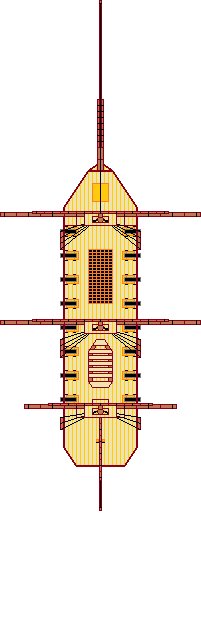
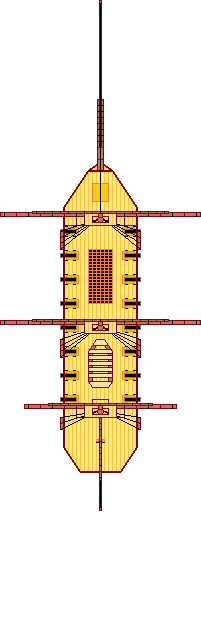
add last ship, fix mistake for block shot

Changed region(s): [[0.0, 0.1506, 1.0, 0.7528], [0.5672, 0.271, 0.6269, 0.3011], [0.4776, 0.7829, 0.5075, 0.813]]

diff --git a/game_display.py b/game_display.py
@@ -71,6 +71,8 @@ class ship_object(ship_type):
             super().__init__(corvet_move, corvet_stay, corvet_deck_width, corvet_deck_height, 2.4, 0.6, 60, 50, corvet_guns_left, corvet_guns_right)
         elif (type == "fregat"):
             super().__init__(fregat_move, fregat_stay, fregat_deck_width, fregat_deck_height, 2.0, 0.8, 75, 60, fregat_guns_left, fregat_guns_right)
+        elif (type == "tradeship"):
+            super().__init__(tradeship_move, tradeship_stay, tradeship_deck_width, tradeship_deck_height, 2.4, 0.4, 90, 60, tradeship_guns_left, tradeship_guns_right)
         elif (type == "warship"):
             super().__init__(warship_move, warship_stay, warship_deck_width, warship_deck_height, 2.4, 0.8, 90, 60, warship_guns_left, warship_guns_right)
     def get_width(self):
@@ -179,30 +181,33 @@ corvet_guns_right = [(35, -72), (35, -48), (35, -24), (35, 0), (35, 24), (35, 48
 fregat_move = pygame.image.load('fregat\\sail_1.png')
 fregat_stay = pygame.image.load('fregat\\sail_0.png')
 fregat_deck_width = 74
-fregat_deck_height = 302
-fregat_guns_left = [(-43, -84), (-43, -60), (-43, -36), (-43, -12), (-43, 12), (-43, 36), (-43, 60), (-43, 84)]
-fregat_guns_right = [(43, -84), (43, -60), (43, -36), (43, -12), (43, 12), (43, 36), (43, 60), (43, 84)]
+fregat_deck_height = 308
+fregat_guns_left = [(-43, -81), (-43, -57), (-43, -33), (-43, -9), (-43, 15), (-43, 39), (-43, 63), (-43, 87)]
+fregat_guns_right = [(43, -81), (43, -57), (43, -33), (43, -9), (43, 15), (43, 39), (43, 63), (43, 87)]
+
+tradeship_move = pygame.image.load('tradeship\\sail_1.png')
+tradeship_stay = pygame.image.load('tradeship\\sail_0.png')
+tradeship_deck_width = 74
+tradeship_deck_height = 332
+tradeship_guns_left = [(-43, -69), (-43, -45), (-43, -21), (-43, 3), (-43, 27), (-43, 51), (-43, 75)]
+tradeship_guns_right = [(43, -69), (43, -45), (43, -21), (43, 3), (43, 27), (43, 51), (43, 75)]
 
 warship_move = pygame.image.load('warship\\sail_1.png')
 warship_stay = pygame.image.load('warship\\sail_0.png')
 warship_deck_width = 74
-warship_deck_height = 326
-warship_guns_left = [(-43, -96), (-43, -72), (-43, -48), (-43, -24), (-43, 0), (-43, 24), (-43, 48), (-43, 72), (-43, 96)]
-warship_guns_right = [(43, -96), (43, -72), (43, -48), (43, -24), (43, 0), (43, 24), (43, 48), (43, 72), (43, 96)]
+warship_deck_height = 332
+warship_guns_left = [(-43, -93), (-43, -69), (-43, -45), (-43, -21), (-43, 3), (-43, 27), (-43, 51), (-43, 75), (-43, 99)]
+warship_guns_right = [(43, -93), (43, -69), (43, -45), (43, -21), (43, 3), (43, 27), (43, 51), (43, 75), (43, 99)]
 
-# player_ship = ship_object(0, 0, 0, "corvet")
-# friendly_ships = [ship_object(300, 0, 0, "corvet"),
-#                   ship_object(-300, -300, 0, "brig"),
-#                   ship_object(0, -300, 0, "brig")]
-# enemy_ships = [ship_object(-1000, -1500, 180, "fregat"),
-#                ship_object(-500, -1500, 180, "fregat"),
-#                ship_object(-500, -2000, 180, "karaka"),
-#                ship_object(-1000, -2000, 180, "karaka")]
+player_ship = ship_object(0, 0, 0, "corvet")
+friendly_ships = [ship_object(-300, -300, 0, "brig")]
+enemy_ships = [ship_object(-500, -1500, 180, "fregat"),
+               ship_object(-500, -2000, 180, "karaka")]
 
-player_ship = ship_object(0, 0, 0, "warship")
-friendly_ships = []
-enemy_ships = [ship_object(0, -1000, 180, "corvet"),
-               ship_object(200, -1000, 180, "corvet")]
+# player_ship = ship_object(0, 0, 0, "warship")
+# friendly_ships = []
+# enemy_ships = [ship_object(-200, -1000, 180, "fregat"),
+#                ship_object(200, -1000, 180, "fregat")]
 
 kernels = []
 
@@ -478,7 +483,7 @@ def no_may_shoot_right(ship, target_ship, block_ship):
     dist = ((ship.x - target_ship.x) ** 2 + (ship.y - target_ship.y) ** 2) ** 0.5
     block_dist = ((ship.x - block_ship.x) ** 2 + (ship.y - block_ship.y) ** 2) ** 0.5
     gip1 = ((ship.guns_left[0][0]) ** 2 + (ship.guns_left[0][1]) ** 2) ** 0.5
-    gip2 = ((ship.guns_left[len(ship.guns_left) - 1][0]) ** 2 + (ship.guns_left[len(ship.guns_left) - 1][1]) ** 2)
+    gip2 = ((ship.guns_left[len(ship.guns_left) - 1][0]) ** 2 + (ship.guns_left[len(ship.guns_left) - 1][1]) ** 2) ** 0.5
 
     arcsin1 = math.asin(ship.guns_right[0][1] / gip1)
     arcsin2 = math.asin(ship.guns_right[len(ship.guns_right) - 1][1] / gip2)
